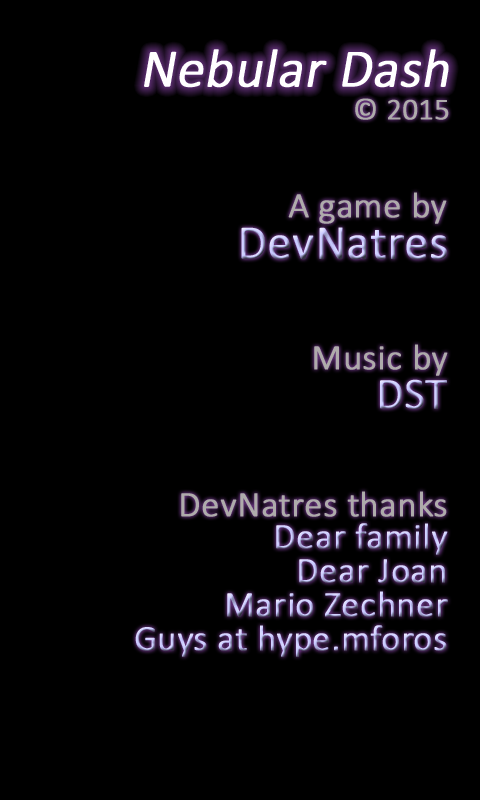
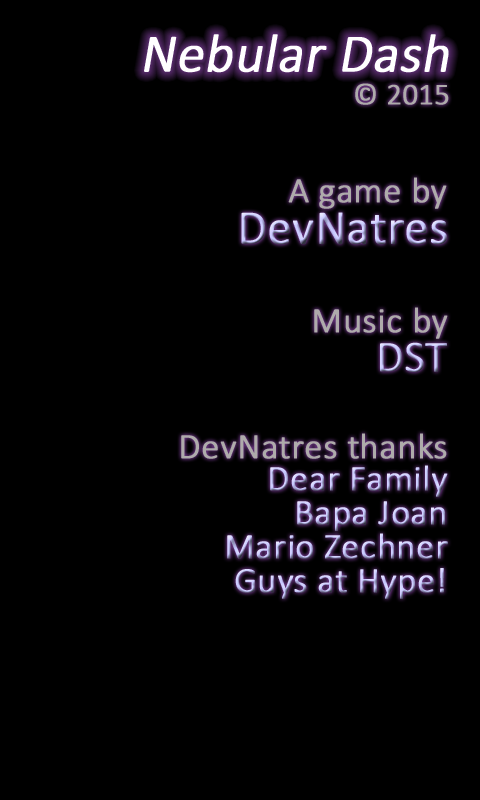
Splash

Changed region(s): [[0.2812, 0.375, 0.9375, 0.8438], [0.2812, 0.0312, 0.9688, 0.1562], [0.5, 0.2188, 0.9375, 0.3438]]

diff --git a/core/src/com/devnatres/dashproject/sidescreens/SplashScreen.java b/core/src/com/devnatres/dashproject/sidescreens/SplashScreen.java
@@ -1,0 +1,108 @@
+package com.devnatres.dashproject.sidescreens;
+
+import com.badlogic.gdx.Gdx;
+import com.badlogic.gdx.Screen;
+import com.badlogic.gdx.graphics.GL20;
+import com.badlogic.gdx.graphics.Texture;
+import com.badlogic.gdx.graphics.g2d.SpriteBatch;
+import com.devnatres.dashproject.DashGame;
+import com.devnatres.dashproject.dnagdx.DnaCamera;
+import com.devnatres.dashproject.gameconstants.Time;
+import com.devnatres.dashproject.gameinput.InputTranslator;
+import com.devnatres.dashproject.resourcestore.HyperStore;
+import com.devnatres.dashproject.tools.Tools;
+
+/**
+ * Created by DevNatres on 19/06/2015.
+ */
+public class SplashScreen implements Screen {
+    private static final int FADE_DURATION = (int)Time.FPS;
+    private static final int SPLASH_DURATION = (int)Time.FPS * 3 + FADE_DURATION * 2;
+    private static final float FADE_ICR = 1f/FADE_DURATION;
+
+    private final DashGame dashGame;
+    private final HyperStore localHyperStore;
+    private final SpriteBatch mainBatch;
+    private final DnaCamera mainCamera;
+    private final InputTranslator mainInputTranslator;
+    private final Texture background;
+
+    private int splashDuration = SPLASH_DURATION;
+    private float fadeValue;
+
+    public SplashScreen(DashGame dashGame) {
+        this.dashGame = dashGame;
+        localHyperStore = new HyperStore();
+        mainBatch = dashGame.getMainBatch();
+        mainCamera = dashGame.getCenteredMainCamera();
+        mainInputTranslator = dashGame.getClearedMainInputTranslator();
+        background = localHyperStore.getTexture("splash.png");
+    }
+
+    @Override
+    public void render(float delta) {
+        Gdx.gl.glClearColor(0, 0, 0, 1);
+        Gdx.gl.glClear(GL20.GL_COLOR_BUFFER_BIT);
+        mainCamera.update();
+        mainBatch.setProjectionMatrix(mainCamera.combined);
+
+        mainBatch.begin();
+
+        if (splashDuration > (SPLASH_DURATION - FADE_DURATION)) {
+            mainBatch.setColor(1f, 1f, 1f, fadeValue);
+            fadeValue = Tools.limitFloat(fadeValue + FADE_ICR, 0f, 1f);
+        } else if (splashDuration < FADE_DURATION) {
+            mainBatch.setColor(1f, 1f, 1f, fadeValue);
+            fadeValue = Tools.limitFloat(fadeValue - FADE_ICR, 0f, 1f);
+        } else {
+            mainBatch.setColor(1f, 1f, 1f, 1f);
+        }
+
+        if (fadeValue > FADE_ICR) {
+            mainBatch.draw(background, 0, 0);
+        }
+
+        mainBatch.end();
+
+        if (mainInputTranslator.isTouchDown()) {
+            splashDuration = 0;
+        } else if (splashDuration > 0) {
+            splashDuration--;
+        }
+
+        if (splashDuration == 0) {
+            mainBatch.setColor(1f, 1f, 1f, 1f);
+            dashGame.setScreen(new MainMenuScreen(dashGame));
+        }
+    }
+
+    @Override
+    public void resize(int width, int height) {
+
+    }
+
+    @Override
+    public void show() {
+
+    }
+
+    @Override
+    public void hide() {
+        dispose();
+    }
+
+    @Override
+    public void pause() {
+
+    }
+
+    @Override
+    public void resume() {
+
+    }
+
+    @Override
+    public void dispose() {
+        localHyperStore.dispose();
+    }
+}

diff --git a/core/src/com/devnatres/dashproject/DashGame.java b/core/src/com/devnatres/dashproject/DashGame.java
@@ -15,7 +15,7 @@ import com.devnatres.dashproject.gameconstants.Time;
 import com.devnatres.dashproject.gameinput.InputTranslator;
 import com.devnatres.dashproject.gamestate.GameState;
 import com.devnatres.dashproject.resourcestore.HyperStore;
-import com.devnatres.dashproject.sidescreens.MainMenuScreen;
+import com.devnatres.dashproject.sidescreens.SplashScreen;
 import com.devnatres.dashproject.tools.VectorPool;
 
 /**
@@ -154,11 +154,12 @@ public class DashGame extends Game {
 
         hyperStore = new HyperStore();
         gameState = new GameState(); // It must be created before any Screen
-        this.setScreen(new MainMenuScreen(this));
-
-        initialFrameTime = System.nanoTime();
 
         Gdx.input.setCatchBackKey(true);
+
+        this.setScreen(new SplashScreen(this));
+
+        initialFrameTime = System.nanoTime();
 
         if (Debug.DEBUG) Debug.begin(mainCamera);
 	}
